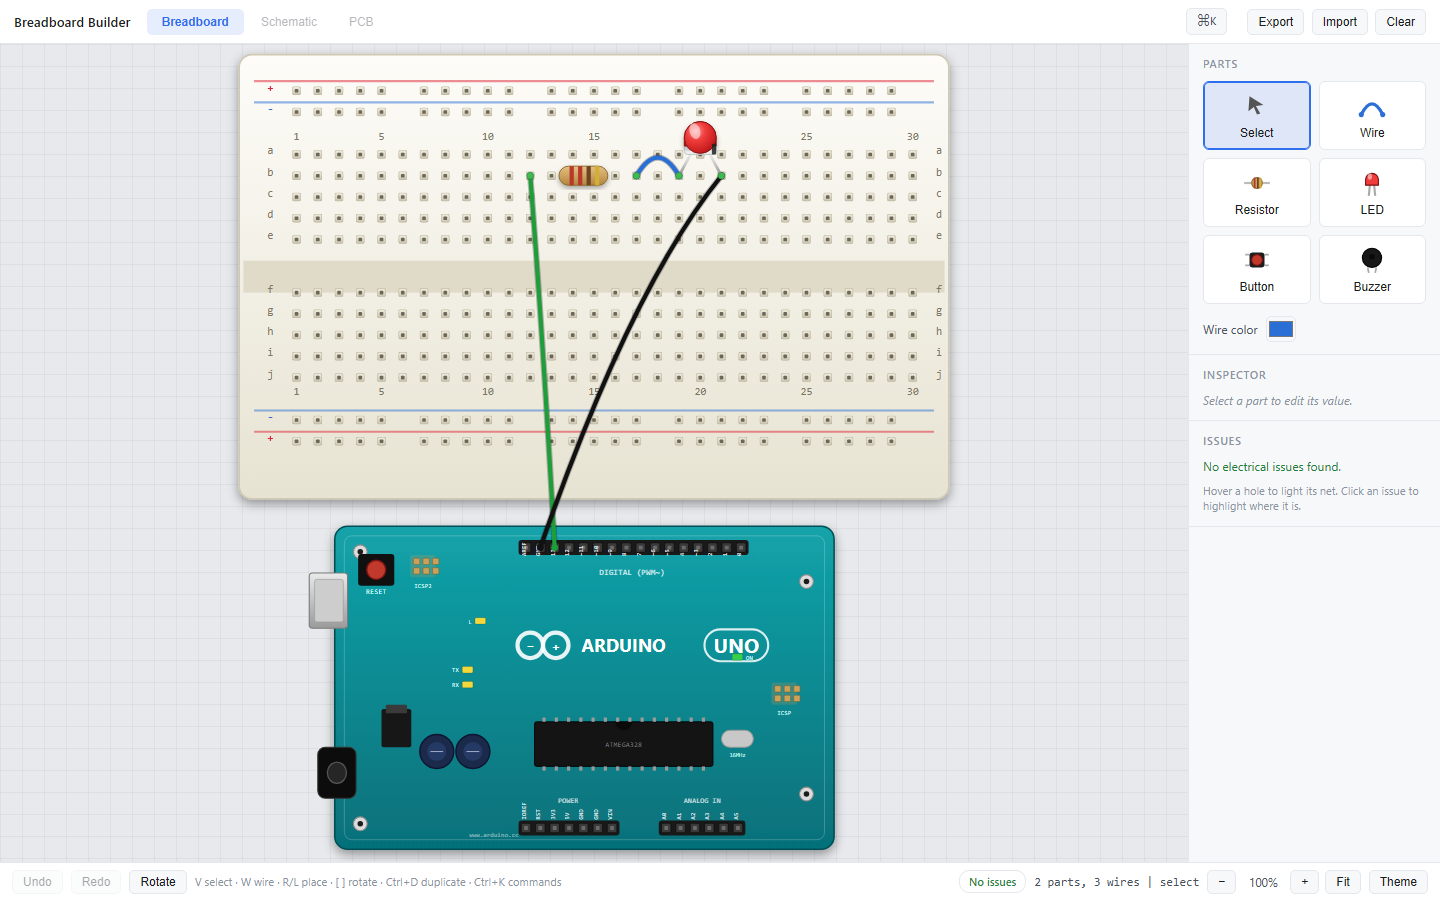
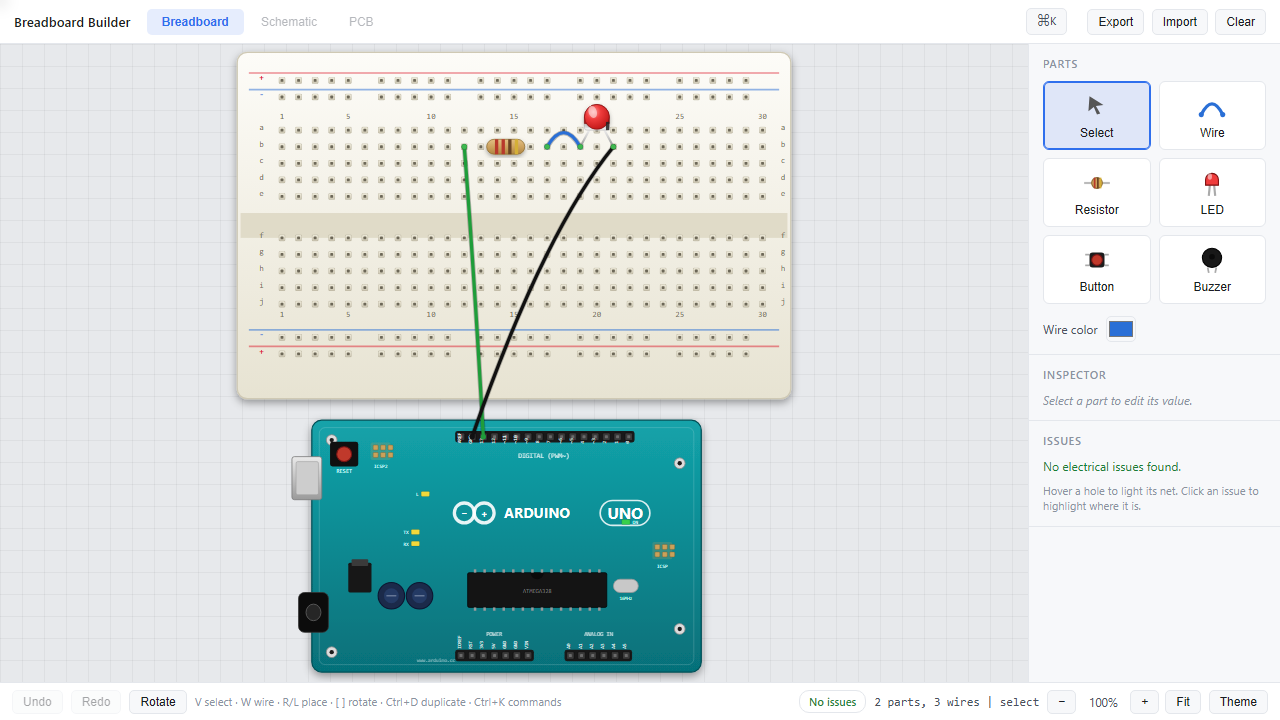
feat: marquee multi-select + shift-click + multi-delete
Adds a real multi-selection model alongside single-select, isolated so it does
not disturb drag, pan, or single-click select.

- state.multi holds a set of part ids. Drag on empty canvas draws a marquee
  (dashed accent rect); on release, every part whose legs are fully inside is
  selected. A marquee that lands on exactly one part promotes to a normal single
  selection (so the inspector/floatbar still appear).
- Shift-click a part toggles it in the multi-selection.
- Delete removes the whole multi-selection (one undo step); deleteSelected and
  the Delete key both route through it.
- Multi-selected parts get the dashed selection ring; the status bar shows
  "N selected". Switching tools / placing / wiring clears the multi-selection.

Care taken not to regress: the part and wire branches return before the marquee
starts, and pan/pinch are checked first, so single-select, drag-move, space-pan,
and pinch are unchanged.

Verified in a real browser: a marquee over the two seed parts selects both
("2 selected", 2 rings) and Delete removes both (2 -> 0); shift-clicking two parts
also gives "2 selected"; single-click still selects one and shows the floatbar.
Zero console errors.

diff --git a/app.js b/app.js
@@ -186,10 +186,10 @@
   })();
 
   // ---------- state ----------
-  var state = { parts: [], wires: [], sel: null, tool: 'select', placing: null, wireDraft: null, hoverNode: null, hoverHoleId: null, issueNet: null, nextId: 1 };
+  var state = { parts: [], wires: [], sel: null, multi: [], tool: 'select', placing: null, wireDraft: null, hoverNode: null, hoverHoleId: null, issueNet: null, nextId: 1 };
   var wireColor = '#2a6fd6';
   var lastPointer = { x: dims.width / 2, y: 80 };
-  var drag = null;
+  var drag = null, marquee = null;
   var nets = null;
   var history = [], future = [];
   var view = { x: 0, y: 0, w: dims.width, h: dims.height + ARD_H };
@@ -442,7 +442,8 @@
 
     state.parts.forEach(function (p) {
       var g = drawPartInto(partLayer, p.type, p.legHoles, p, { 'data-part-id': p.id, style: 'cursor:grab' });
-      if (g && state.sel && state.sel.kind === 'part' && state.sel.id === p.id) {
+      var isSel = (state.sel && state.sel.kind === 'part' && state.sel.id === p.id) || (state.multi.indexOf(p.id) >= 0);
+      if (g && isSel) {
         try {
           var bb = g.getBBox();
           E('rect', { x: bb.x - 3, y: bb.y - 3, width: bb.width + 6, height: bb.height + 6, rx: 5,
@@ -482,6 +483,11 @@
         E('line', { x1: f.x, y1: f.y, x2: lastPointer.x, y2: lastPointer.y, stroke: '#3aa0ff', 'stroke-width': 2, 'stroke-dasharray': '4 3' }, overlay);
       }
     }
+    if (marquee) {
+      E('rect', { x: Math.min(marquee.x0, marquee.x1), y: Math.min(marquee.y0, marquee.y1),
+        width: Math.abs(marquee.x1 - marquee.x0), height: Math.abs(marquee.y1 - marquee.y0),
+        fill: '#4c8dff22', stroke: '#4c8dff', 'stroke-width': 1, 'stroke-dasharray': '4 3' }, overlay);
+    }
     updateStatus();
     renderIssues();
     renderInspector();
@@ -491,9 +497,10 @@
   function updateStatus() {
     var s = document.getElementById('status');
     if (!s) return;
-    var mode = state.placing ? ('placing ' + state.placing.type + ' (R to rotate)')
+    var mode = state.placing ? ('placing ' + state.placing.type)
       : (state.tool === 'wire' ? (state.wireDraft ? 'wire: pick 2nd hole' : 'wire: pick 1st hole') : 'select');
-    s.textContent = state.parts.length + ' parts, ' + state.wires.length + ' wires  |  ' + mode;
+    var extra = (state.multi && state.multi.length) ? (state.multi.length + ' selected') : mode;
+    s.textContent = state.parts.length + ' parts, ' + state.wires.length + ' wires  |  ' + extra;
   }
   function renderIssues() {
     var ck = document.getElementById('checks');
@@ -575,6 +582,7 @@
       }
       return;
     }
+    if (marquee) { marquee.x1 = lastPointer.x; marquee.y1 = lastPointer.y; marquee.moved = true; render(); return; }
     if (state.tool === 'select') {
       var hh = nearestHole(lastPointer.x, lastPointer.y, false);
       var near = hh && Math.hypot(hh.x - lastPointer.x, hh.y - lastPointer.y) < P * 0.55;
@@ -593,20 +601,40 @@
     var partEl = e.target.closest && e.target.closest('[data-part-id]');
     if (partEl) {
       var id = +partEl.getAttribute('data-part-id');
+      if (e.shiftKey) {
+        var mi = state.multi.indexOf(id);
+        if (mi >= 0) state.multi.splice(mi, 1); else state.multi.push(id);
+        state.sel = null; render(); return;
+      }
+      state.multi = [];
       state.sel = { kind: 'part', id: id };
       if (byId(id)) drag = { id: id, moved: false, before: JSON.stringify(snapshot()) };
       try { svg.setPointerCapture(e.pointerId); } catch (_) {}
       render(); return;
     }
     var wireEl = e.target.closest && e.target.closest('[data-wire-id]');
-    if (wireEl) { state.sel = { kind: 'wire', id: wireEl.getAttribute('data-wire-id') }; render(); return; }
-    state.sel = null; render();
+    if (wireEl) { state.sel = { kind: 'wire', id: wireEl.getAttribute('data-wire-id') }; state.multi = []; render(); return; }
+    // empty space -> start a marquee (a click with no drag deselects)
+    state.sel = null; state.multi = [];
+    marquee = { x0: lastPointer.x, y0: lastPointer.y, x1: lastPointer.x, y1: lastPointer.y, moved: false };
+    render();
   });
 
   window.addEventListener('pointerup', function (e) {
     delete pointers[e.pointerId];
     if (pinch && Object.keys(pointers).length < 2) pinch = null;
     if (pan) { pan = null; document.body.classList.remove('panning'); }
+    if (marquee) {
+      if (marquee.moved) {
+        var rx0 = Math.min(marquee.x0, marquee.x1), rx1 = Math.max(marquee.x0, marquee.x1);
+        var ry0 = Math.min(marquee.y0, marquee.y1), ry1 = Math.max(marquee.y0, marquee.y1);
+        state.multi = state.parts.filter(function (p) {
+          return p.legHoles.every(function (id) { var h = holesById[id]; return h && h.x >= rx0 && h.x <= rx1 && h.y >= ry0 && h.y <= ry1; });
+        }).map(function (p) { return p.id; });
+        if (state.multi.length === 1) { state.sel = { kind: 'part', id: state.multi[0] }; state.multi = []; }
+      }
+      marquee = null; render();
+    }
     if (drag) {
       if (drag.moved) { try { history.push(drag.before); if (history.length > 120) history.shift(); future.length = 0; } catch (_) {} updateUndoButtons(); save(); }
       drag = null;
@@ -666,7 +694,7 @@
 
     if (mod && (k === 'k' || k === 'K')) { openPalette(); e.preventDefault(); return; }
     if (k === 'Escape') {
-      hideCtx();
+      hideCtx(); marquee = null;
       if (palOpen) { closePalette(); return; }
       state.placing = null; state.wireDraft = null; document.body.classList.remove('placing'); render(); return;
     }
@@ -688,14 +716,7 @@
     if (k === 'b' || k === 'B') { choosePlace('button'); return; }
     if (k === ']' || k === '.') { rotateSelectedBy(1); return; }
     if (k === '[' || k === ',') { rotateSelectedBy(3); return; }
-    if (k === 'Delete' || k === 'Backspace') {
-      if (state.sel) {
-        pushHistory();
-        if (state.sel.kind === 'part') state.parts = state.parts.filter(function (p) { return p.id !== state.sel.id; });
-        else state.wires = state.wires.filter(function (w) { return w.id !== state.sel.id; });
-        state.sel = null; save(); render(); e.preventDefault();
-      }
-    }
+    if (k === 'Delete' || k === 'Backspace') { deleteSelected(); e.preventDefault(); }
   });
 
   // ---------- tool bins + actions (delegated across the whole UI) ----------
@@ -704,14 +725,14 @@
   function setActiveEl(b) { clearActive(); if (b && b.classList && b.classList.contains('bin-item')) b.classList.add('active'); }
   function setActiveAction(a) { setActiveEl(bin ? bin.querySelector('[data-action="' + a + '"]') : null); }
   function chooseTool(t) {
-    state.tool = t; state.placing = null; state.wireDraft = null;
+    state.tool = t; state.placing = null; state.wireDraft = null; state.multi = [];
     document.body.classList.remove('placing');
     document.body.classList.toggle('wiring', t === 'wire');
     setActiveAction(t); render();
   }
   function choosePlace(type) {
     if (!PARTS[type]) return;
-    state.tool = 'select'; state.wireDraft = null; state.placing = { type: type, rot: 0 };
+    state.tool = 'select'; state.wireDraft = null; state.placing = { type: type, rot: 0 }; state.multi = [];
     document.body.classList.add('placing'); document.body.classList.remove('wiring');
     setActiveEl(bin ? bin.querySelector('[data-part="' + type + '"]') : null); render();
   }
@@ -751,6 +772,12 @@
     try { localStorage.setItem('bb.theme', nxt); } catch (_) {}
   }
   function deleteSelected() {
+    if (state.multi && state.multi.length) {
+      pushHistory();
+      var ids = state.multi.slice();
+      state.parts = state.parts.filter(function (p) { return ids.indexOf(p.id) < 0; });
+      state.multi = []; state.sel = null; save(); render(); return;
+    }
     if (!state.sel) return;
     pushHistory();
     if (state.sel.kind === 'part') state.parts = state.parts.filter(function (p) { return p.id !== state.sel.id; });